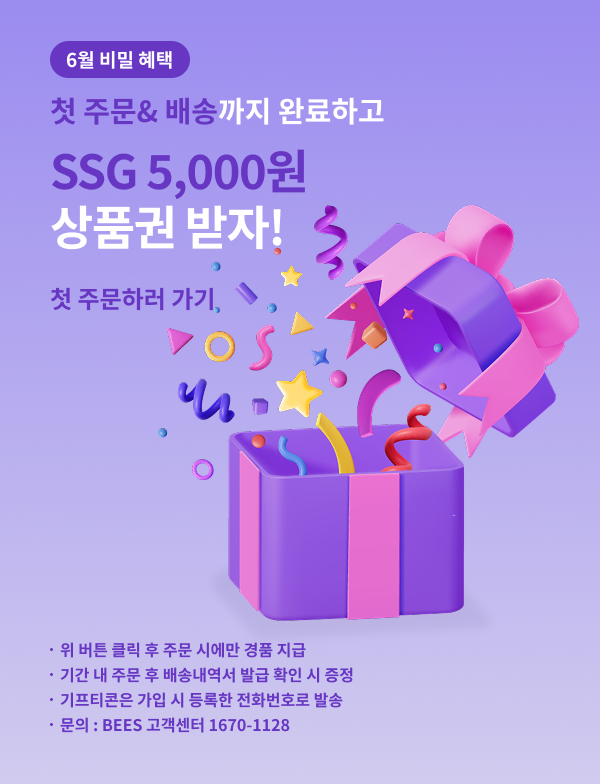
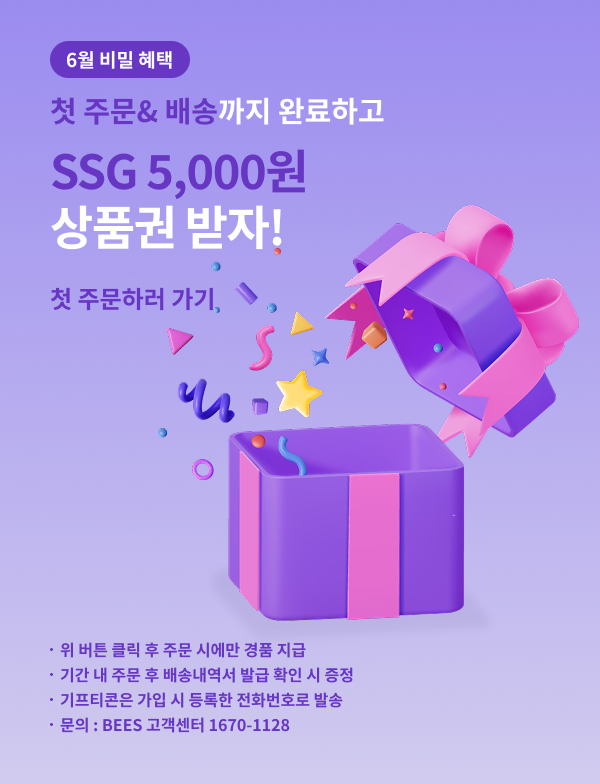
update2

diff --git a/carousel_banner_2.html b/carousel_banner_2.html
@@ -1,0 +1,18 @@
+<!DOCTYPE html>
+<html lang="en">
+<head>
+    <meta charset="UTF-8">
+    <meta name="viewport" content="width=device-width, initial-scale=1.0">
+    <title>BEES</title>
+    <link rel="stylesheet" href="./css/style.css">
+</head>
+<body>
+    <div class="wrap" style="margin: 0 auto; max-width: 600px; width: 100%; position: fixed; bottom:0; left:0; right:0;">
+        <div class="carousel-item">
+            <img src="./img/img4.png" alt="text">
+            <img class="move" src="./img/img5.png" alt="text">
+            <img src="./img/img6.png" alt="text">
+        </div>
+    </div>
+</body>
+</html>

diff --git a/carousel_banner_1.html b/carousel_banner_1.html
@@ -7,7 +7,7 @@
     <link rel="stylesheet" href="./css/style.css">
 </head>
 <body>
-    <div class="wrap" style="margin: 0 auto; max-width: 600px; width: 100%; position: fixed; bottom:0; left:0; right:0;">
+    <div class="wrap" style="margin: 0 auto; max-width: 600px; width: 100%; position: fixed; bottom:0; left:0; right:0">
         <div class="carousel-item">
             <!-- <div class="tit1">6월 비밀 혜택</div>
             <div class="tit2">첫 주문& 배송까지 완료하고</div>

diff --git a/index.html b/index.html
@@ -14,6 +14,9 @@
         <li>
             <a href="./carousel_banner_1.html">캐러셀배너1</a>
         </li>
+        <li>
+            <a href="./carousel_banner_2.html">캐러셀배너2</a>
+        </li>
     </ul>
 </body>
 </html>

diff --git a/css/style.css b/css/style.css
@@ -114,7 +114,7 @@ html {
 
 @keyframes move {
   0% {
-    transform: translateY(7%);
+    transform: translateY(0%);
   }
   100% {
     transform: translateY(4%);

diff --git a/css/style.scss b/css/style.scss
@@ -117,7 +117,7 @@ html {
 
 @keyframes move {
   0% {
-    transform: translateY(7%);
+    transform: translateY(0%);
   }
   100% {
     transform: translateY(4%);
